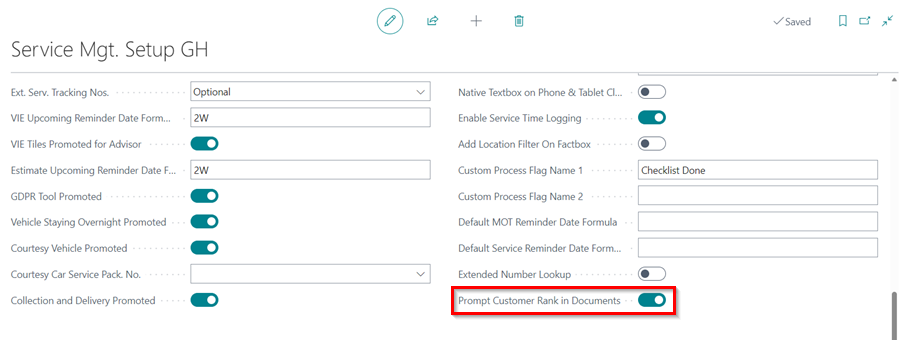
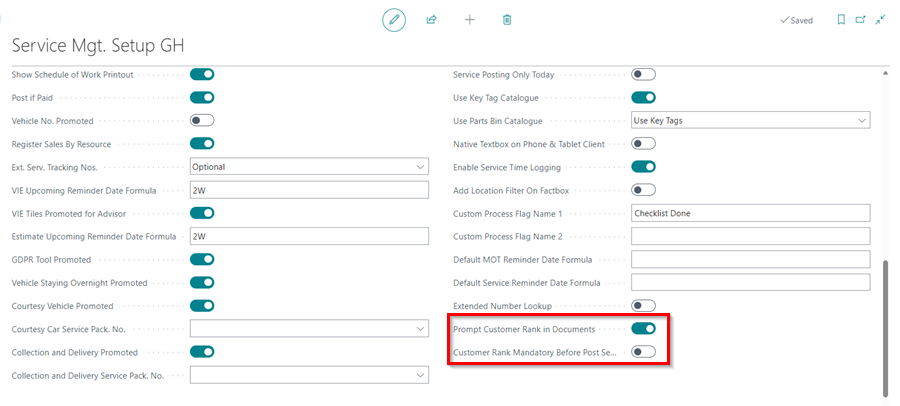
customer rank update

diff --git a/docs/garagehive-customer-ranking.md b/docs/garagehive-customer-ranking.md
@@ -28,6 +28,7 @@ Garage Hive's customer ranking feature allows you to rate customers based on you
    ![](media/garagehive-customer-ranks-setup3.png)
 
 6. Enable the **Prompt Customer Rank in Documents** slider, under the **General** FastTab.
+7. You can also enable the **Customer Rank Mandatory Before Post Service Document** slider, to ensure that the customer rank is updated before any document is posted.
 
    ![](media/garagehive-customer-ranks-setup4.png)
 
@@ -35,7 +36,9 @@ Garage Hive's customer ranking feature allows you to rate customers based on you
 [Go back to top](#top)
 
 ### How to Rank the Customers
-1. To rank the existing customers, open the customer card of the customer you want to rank.
+
+#### To Rank an Existing Customer
+1. Open the customer card of the customer you want to rank.
 2. Under the **General** FastTab, there is **Customer Ranking** section. Click on the ellipsis (...) at the end of the **Rank Code** field.
 
    ![](media/garagehive-customer-ranking1.png)
@@ -48,7 +51,16 @@ Garage Hive's customer ranking feature allows you to rate customers based on you
 
    ![](media/garagehive-customer-ranking3.png)
 
-5. The **Customer Ranking** details notification will be shown each time a new document is created for the customer.
+#### To View or Rank a Customer from an Open Jobsheet
+1. Under the **General** FastTab, click on **Show More** in the right hand top corner to view the hidden fields. 
+
+   ![](media/garagehive-customer-ranking5.png)
+
+2. The **Customer Rank** section is revealed, where you can rank the customer or view the customer rank.
+
+   ![](media/garagehive-customer-ranking6.png)
+
+3. The **Customer Ranking** details notification will be shown each time a new document is created for the customer.
 
    ![](media/garagehive-customer-ranking4.png)
 
